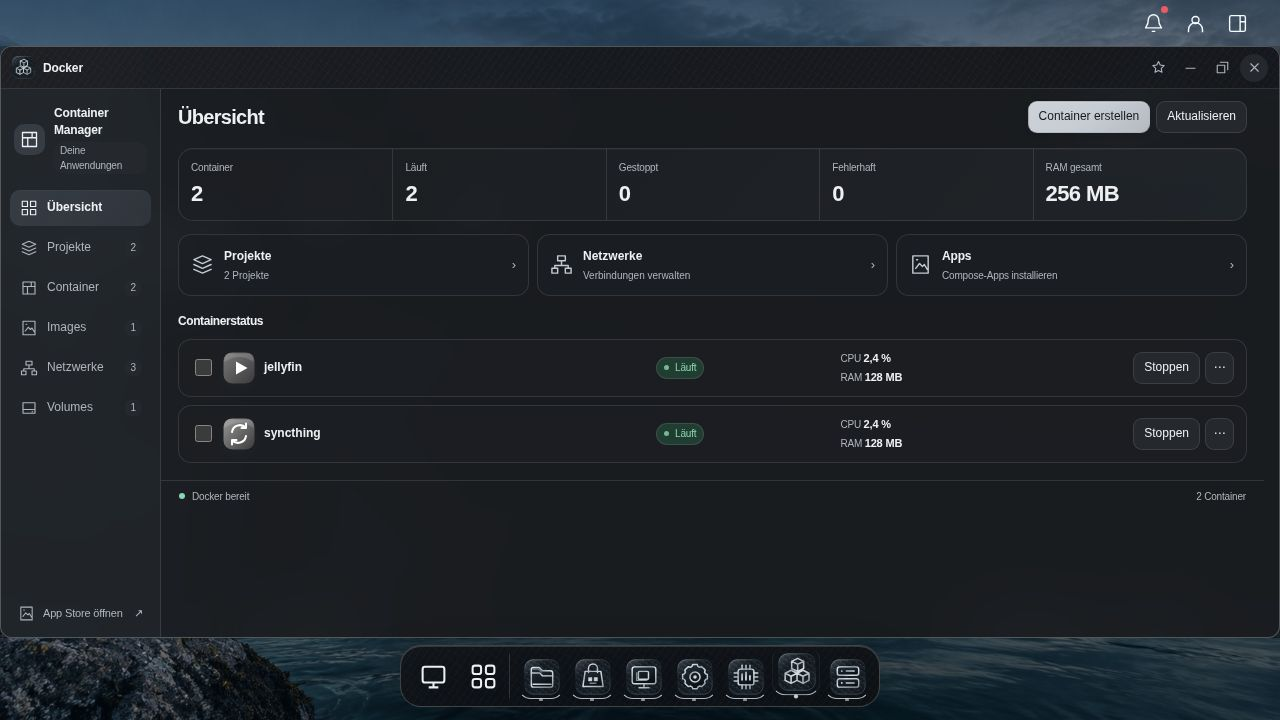
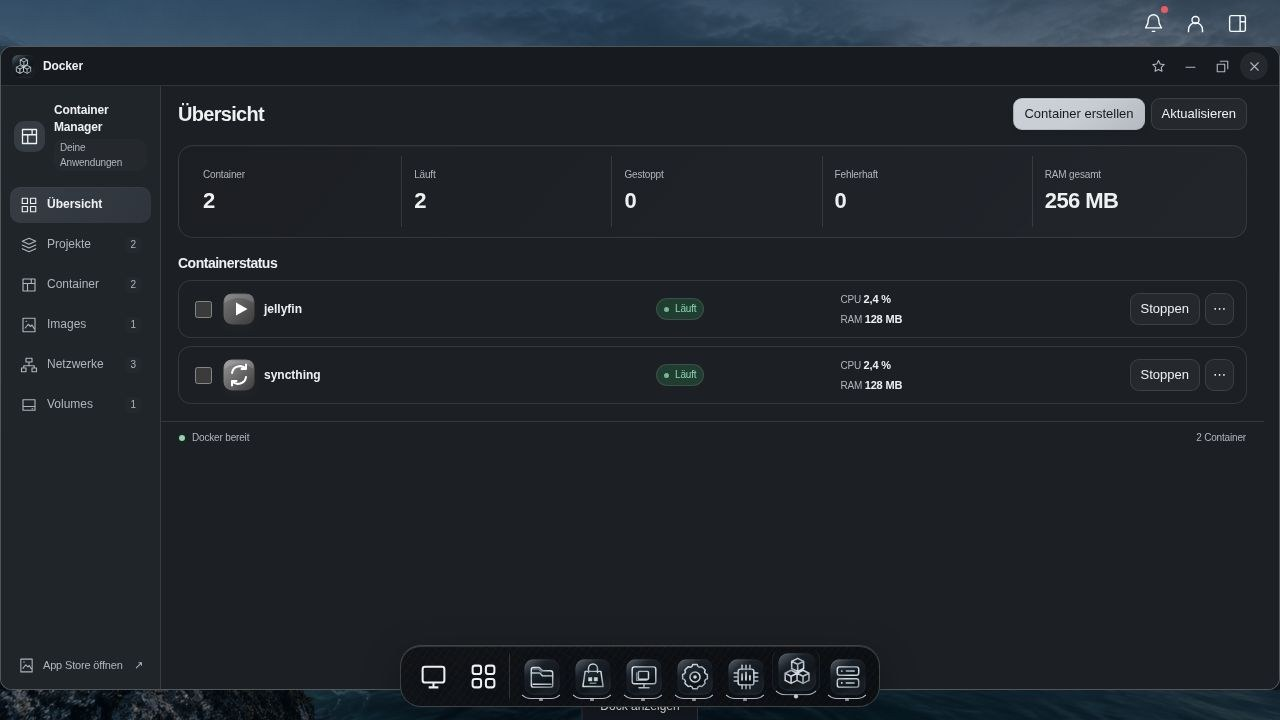
Document verified alpha.6 image and updated Docker interface

diff --git a/docs/VERIFY-0.6.0.md b/docs/VERIFY-0.6.0.md
@@ -1,6 +1,27 @@
 # Prüfungen für Titan 0.6.0
 
-Stand: 8. Oktober 2026. Die folgenden Abschnitte unterscheiden frühere lokale Prüfungen, den abschließenden Menü-Durchlauf und den [veröffentlichten Image-Nachweis für alpha.4](#veröffentlichter-image-nachweis--alpha4). Lokale Vorschau, GitHub-Tests und Prüfungen des gebooteten Images sind jeweils gesondert ausgewiesen.
+Stand: 9. Oktober 2026. Lokale Vorschau, GitHub-Tests und Prüfungen des gebooteten Images sind getrennt ausgewiesen.
+
+## Veröffentlichter Image-Nachweis – alpha.6
+
+Quellstand: `3bbb007dbbaff29d51a04b8dee801a938bbf6a93`. Veröffentlicht: `2026-10-09T05:34:58Z`.
+
+- [Image-Workflow 37885572225](https://github.com/ra5on/Titan/actions/runs/37885572225): erfolgreich einschließlich Boot-, Laufzeit-, Update- und Rollback-Prüfungen.
+- [CI](https://github.com/ra5on/Titan/actions/runs/37885571646), [Debian-Paketprüfung](https://github.com/ra5on/Titan/actions/runs/37885571672) und [App-Laufzeitprüfungen](https://github.com/ra5on/Titan/actions/runs/37885571984): erfolgreich.
+- Gebootetes Image: 15 Laufzeitprüfungen bestanden; die Datenbereichserweiterung ist an den gesonderten A/B-Test delegiert. Alle sieben A/B-Prüfungen bestanden.
+- Lokal: 1.917 Python-Tests, davon 12 umgebungsbedingt übersprungen; 75 UI-Verhaltenssuiten und JavaScript-Syntax erfolgreich.
+- Neue Regressionen: Menü-Abbruch erhält Fenster; erlaubte App-Routen synchronisieren die Browseradresse; Hintergrundstatus öffnet keine App-Details ungefragt; Upload-Gesamtfortschritt fällt beim nächsten Dateinamen nicht zurück; fehlgeschlagene VM-Navigation erhält die vorherigen Bedienfunktionen.
+- Browser: Docker über das Hauptmenü öffnen, Escape mit erhaltenem Fenster und Fokus, App-Store-Detail/Rückweg, tatsächliches Scrollen, VM-Snapshot-Formular und Abbrechen, Docker bei 390 px sowie Hell-/Dunkel-Modus. Keine JavaScript-Fehler in der abschließend geprüften Sitzung. Demo-Hostfunktionen bleiben simuliert.
+
+Manifest und SHA256SUMS wurden nach Veröffentlichung mit dem öffentlichen Repository-Schlüssel verifiziert. Die heruntergeladenen kleinen Dateien stimmen mit der signierten Prüfsummenliste überein. Für die großen Dateien stimmen die GitHub-Digests mit den signierten Prüfsummen überein; sie wurden nicht nochmals vollständig lokal heruntergeladen.
+
+| Datei | Byte | SHA-256 |
+| --- | ---: | --- |
[3 lines of base64/hex data omitted]
+
+Die A/B-Ausgangsbasis ist `generated-current-build`, keine tatsächlich ältere Veröffentlichung. Reale Versionsmigration, physischer Plattentausch und RAID-Wiederaufbau, echter Grafikgast und Langzeitbetrieb auf NAS-Hardware bleiben separat zu prüfen. Titan bleibt Alpha.
 
 ## Frühere Prüfungen für 0.6.0
 

diff --git a/README.md b/README.md
@@ -4,9 +4,9 @@
 
 Titan ist ein eigenständiges NAS-System auf Debian für AMD64. Die Weboberfläche verbindet einen persönlichen Desktop mit Dateimanager, Speicherverwaltung, Freigaben, Docker-Compose-Apps, virtuellen Maschinen und signierten Systemupdates.
 
-**Version 0.6.0-alpha.5 · Alpha.** Zunächst in einer separaten VM und mit Testdaten verwenden.
+**Version 0.6.0-alpha.6 · Alpha.** Zunächst in einer separaten VM und mit Testdaten verwenden.
 
-[**Installationsimage herunterladen (.img.xz)**](https://github.com/ra5on/Titan/releases/download/v0.6.0-alpha.5/titan-0.6.0-alpha.5-amd64.img.xz) · [Release, signiertes Update und Prüfberichte](https://github.com/ra5on/Titan/releases/tag/v0.6.0-alpha.5) · [Änderungen in 0.6.0](docs/RELEASE-0.6.0.md)
+[**Installationsimage herunterladen (.img.xz)**](https://github.com/ra5on/Titan/releases/download/v0.6.0-alpha.6/titan-0.6.0-alpha.6-amd64.img.xz) · [Release, signiertes Update und Prüfberichte](https://github.com/ra5on/Titan/releases/tag/v0.6.0-alpha.6) · [Änderungen in 0.6.0](docs/RELEASE-0.6.0.md)
 
 ![Titan Desktop mit persönlichen Widgets](docs/images/titan-desktop.jpg)
 
@@ -146,7 +146,7 @@ python3 -m unittest discover -s tests
 python3 -m titan.server --demo --host 127.0.0.1 --port 5089
 ```
 
-Die Demo ist eine Vorschau mit simulierten Hostfunktionen. Sie ersetzt keine Prüfung auf echter Hardware oder mit echten Cloudflare-/Tailscale-Konten. Der [Release-Workflow für 0.6.0-alpha.5](https://github.com/ra5on/Titan/actions/runs/37819323545) ist erfolgreich abgeschlossen; Installationsimage, signiertes Update und Prüfberichte sind [veröffentlicht](https://github.com/ra5on/Titan/releases/tag/v0.6.0-alpha.5). Der [Prüfnachweis](docs/VERIFY-0.6.0.md#veröffentlichter-image-nachweis--alpha4) dokumentiert den genauen Quellstand, die Testergebnisse, Signaturen und Dateiprüfsummen.
+Die Demo ist eine Vorschau mit simulierten Hostfunktionen. Sie ersetzt keine Prüfung auf echter Hardware oder mit echten Cloudflare-/Tailscale-Konten. Der [Release-Workflow für 0.6.0-alpha.6](https://github.com/ra5on/Titan/actions/runs/37885572225) ist erfolgreich abgeschlossen; Installationsimage, signiertes Update und Prüfberichte sind [veröffentlicht](https://github.com/ra5on/Titan/releases/tag/v0.6.0-alpha.6). Der [Prüfnachweis](docs/VERIFY-0.6.0.md#veröffentlichter-image-nachweis--alpha6) dokumentiert den genauen Quellstand, die Testergebnisse, Signaturen und Dateiprüfsummen.
 
 Für dieses Alpha-Installationsimage verwendet die A/B-Prüfung eine private, als Altstand markierte Kopie des aktuellen Builds. Sie prüft Systemwechsel, Datenerhalt, Rollback und Fehlerwiederherstellung. Ein Upgrade von einem tatsächlich älteren veröffentlichten Titan-Image ist damit nicht vollständig nachgewiesen und muss separat geprüft werden.
 

diff --git a/docs/RELEASE-0.6.0.md b/docs/RELEASE-0.6.0.md
@@ -6,7 +6,7 @@ Titan 0.6.0 verbindet den persönlichen Desktop und seine Verwaltungsfenster mit
 
 Datei-Uploads zeigen einen durchgehenden Gesamtfortschritt über alle ausgewählten Dateien und unterscheiden Übertragung von abschließendem Speichern. Abbrechen stoppt die restliche Warteschlange; bereits vollständig gespeicherte Dateien bleiben erhalten. Im VM-Manager bleibt die bisherige Ansicht bei einem fehlgeschlagenen Ansichtswechsel bedienbar. Snapshot-Erstellung, Klonen und Wiederherstellung tragen konkrete Aktionsnamen. Die Docker-Übersicht verzichtet auf doppelte Navigationskarten; gemeinsame Abstandsregeln werden nach den Farbthemen angewendet. Debian bleibt die Systembasis. Keine Übernahme von TitanOS-/Umbrel-Code oder Assets.
 
-Der alpha.6-Image-Nachweis wird nach Abschluss des Release-Workflows ergänzt.
+Veröffentlicht: `2026-10-09T05:34:58Z`. [Image und signiertes Update](https://github.com/ra5on/Titan/releases/tag/v0.6.0-alpha.6), [erfolgreicher Release-Workflow](https://github.com/ra5on/Titan/actions/runs/37885572225) und [Prüfnachweis](VERIFY-0.6.0.md#veröffentlichter-image-nachweis--alpha6). Lokale Tests, App-Prüfungen und Image-Boot-/Update-/Rollback-Prüfungen sind erfolgreich; reale NAS-Hardware und Migration von einem älteren veröffentlichten Image benötigen weiterhin gesonderte Abnahme.
 
 **Neu in 0.6.0-alpha.5:** Kompakter, transparenter Login mit einem unveränderten Titan-Schriftzug; gruppiertes Hauptmenü mit gefilterten Gruppen; ruhigere eigene Werkzeugsymbole und matte Anwendungsflächen. Helle Datenansichten sind klarer vom dunklen Desktop getrennt. Kleinere App-Empfehlungen und VM-Details ohne doppelte CPU-/RAM-Karten nutzen die Fläche besser. „Konsole öffnen“ ist eine direkte VM-Aktion. Ohne VM-Auswahl bietet die eigenständige Konsole einen Weg zum VM-Manager statt wiederholter Verbindungsversuche. Das Kontomenü speichert optionales automatisches Dock-Ausblenden für maximierte Fenster; auf schmalen Bildschirmen bleibt das Dock sichtbar.
 
